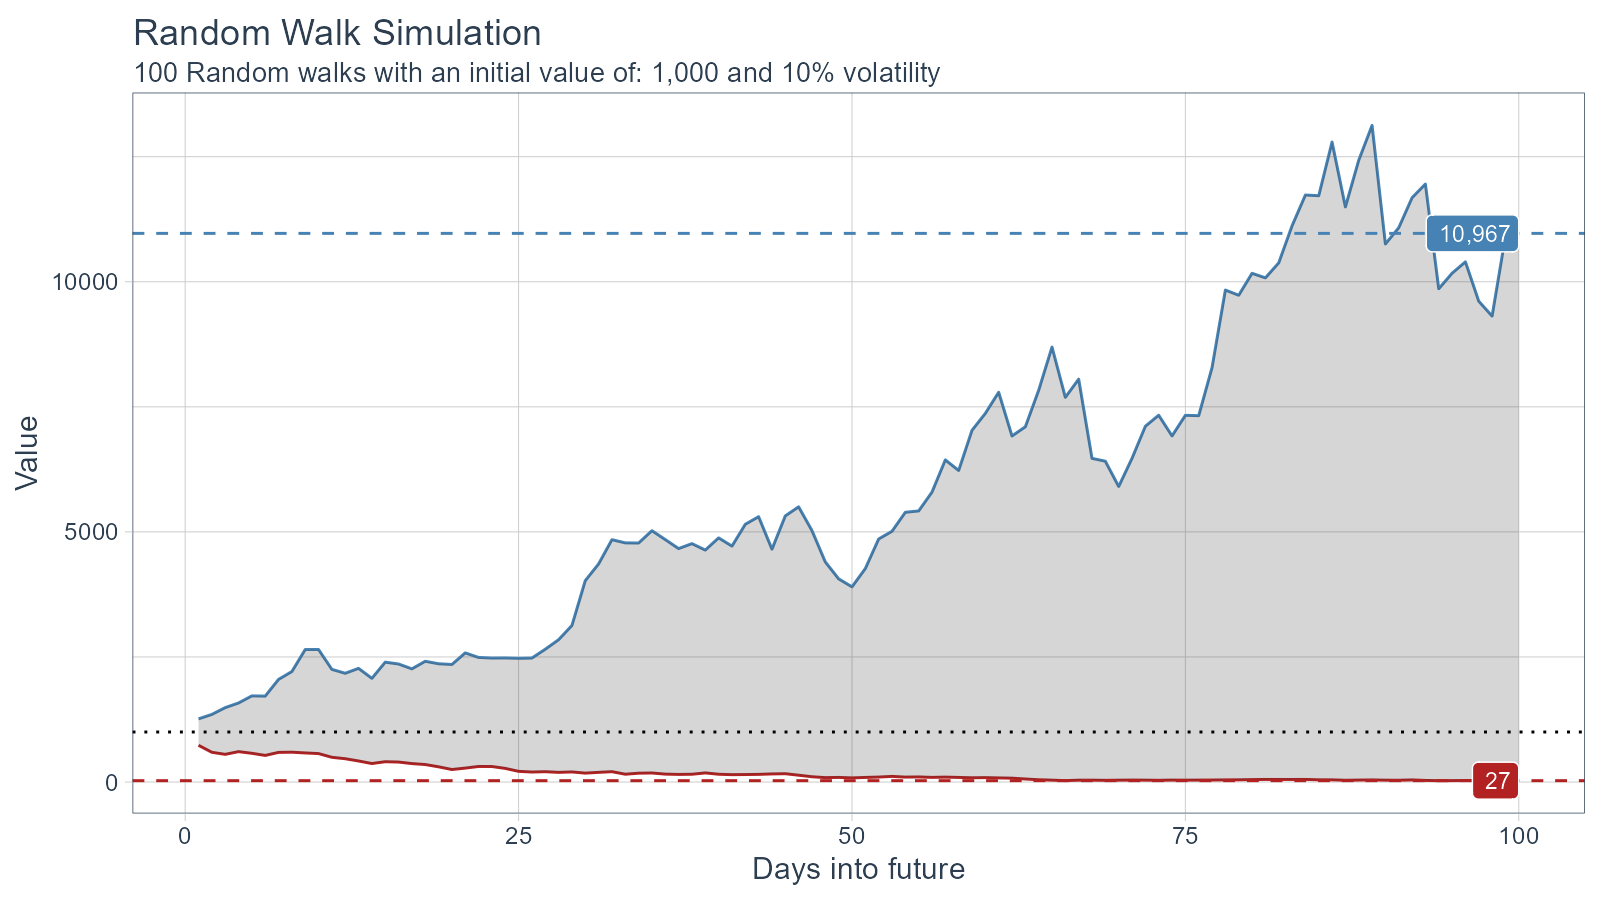
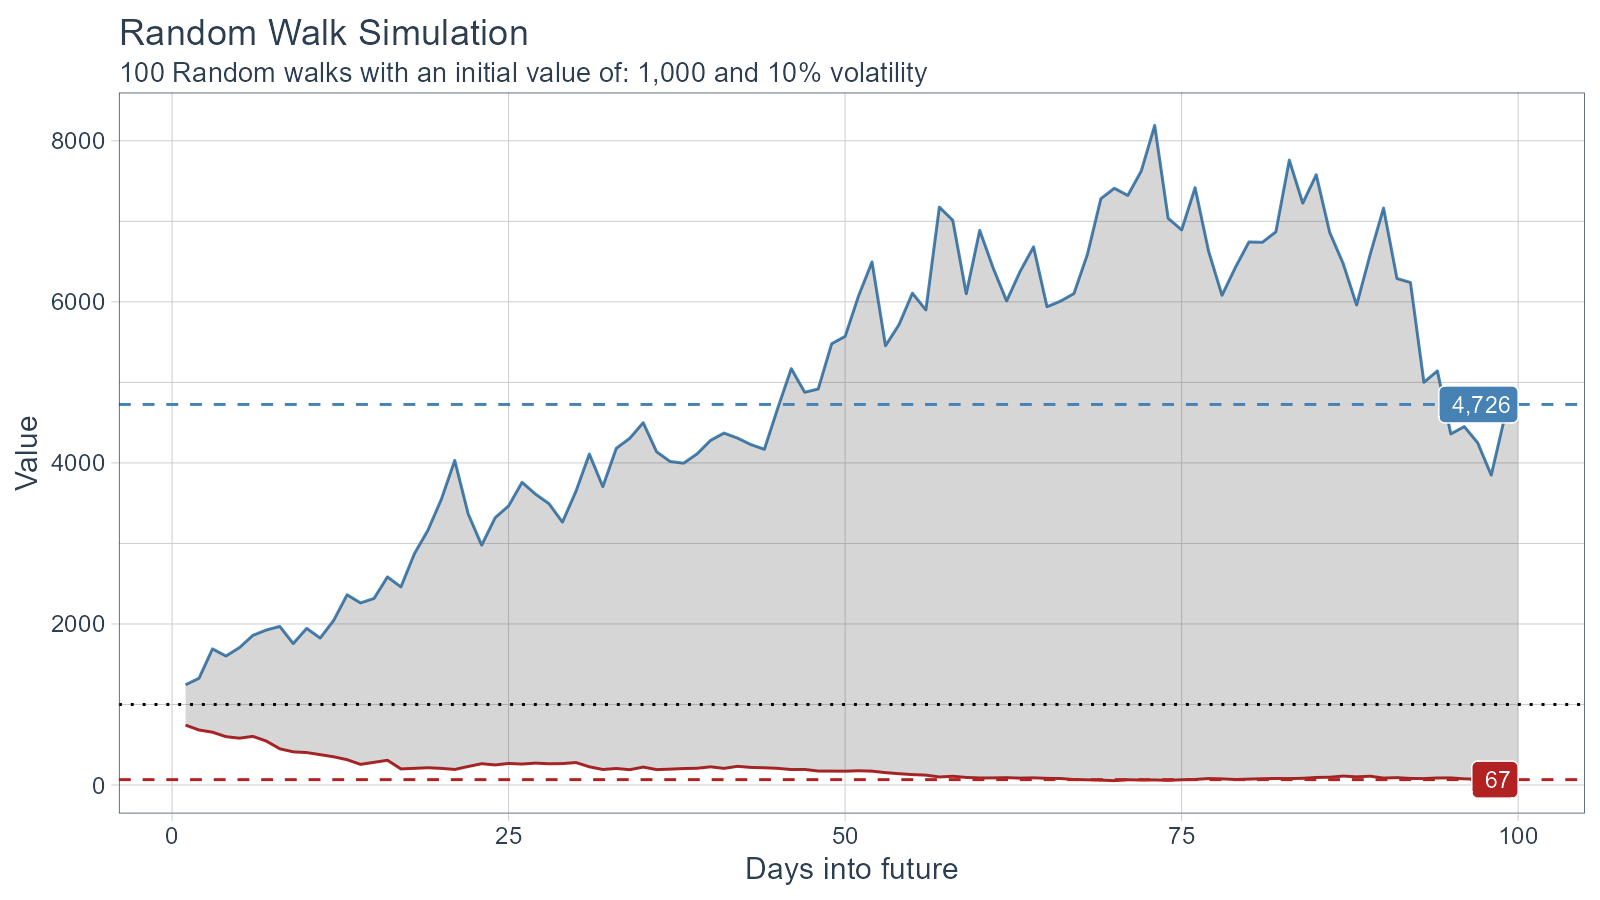
fix NEWS page

diff --git a/docs/news/index.html b/docs/news/index.html
@@ -180,18 +180,21 @@
 <a href="#minor-fixes-and-improvments" class="anchor"></a>Minor Fixes and Improvments</h2>
 <p>None</p>
 </div>
-<div id="healthyrts-011" class="section level2">
-<h2 class="hasAnchor">
-<a href="#healthyrts-011" class="anchor"></a>healthyR.ts 0.1.1</h2>
+</div>
+    <div id="healthyrts-011" class="section level1">
+<h1 class="page-header" data-toc-text="0.1.1">
+<a href="#healthyrts-011" class="anchor"></a>healthyR.ts 0.1.1<small> 2021-02-09 </small>
+</h1>
 <ul>
 <li>update DESCRIPTION file and minor cleanups</li>
 <li>GitHub release: <a href="https://github.com/spsanderson/healthyR.ts/releases/tag/v0.1.1" class="uri">https://github.com/spsanderson/healthyR.ts/releases/tag/v0.1.1</a>
 </li>
 </ul>
 </div>
-<div id="healthyrts-010" class="section level2">
-<h2 class="hasAnchor">
-<a href="#healthyrts-010" class="anchor"></a>healthyR.ts 0.1.0</h2>
+    <div id="healthyrts-010" class="section level1">
+<h1 class="page-header" data-toc-text="0.1.0">
+<a href="#healthyrts-010" class="anchor"></a>healthyR.ts 0.1.0<small> 2021-01-22 </small>
+</h1>
 <ul>
 <li>Added functions</li>
 </ul>
@@ -200,9 +203,10 @@
 <li>ts_compare_data</li>
 </ol>
 </div>
-<div id="healthyrts-0009001" class="section level2">
-<h2 class="hasAnchor">
-<a href="#healthyrts-0009001" class="anchor"></a>healthyR.ts 0.0.0.9001</h2>
+    <div id="healthyrts-0009001" class="section level1">
+<h1 class="page-header" data-toc-text="0.0.0.9001">
+<a href="#healthyrts-0009001" class="anchor"></a>healthyR.ts 0.0.0.9001<small> Unreleased </small>
+</h1>
 <ul>
 <li>Added fuctions</li>
 </ul>
@@ -211,13 +215,13 @@
 <li>ts_random_walk_ggplot_layers</li>
 </ol>
 </div>
-<div id="healthyrts-0009000" class="section level2">
-<h2 class="hasAnchor">
-<a href="#healthyrts-0009000" class="anchor"></a>healthyR.ts 0.0.0.9000</h2>
+    <div id="healthyrts-0009000" class="section level1">
+<h1 class="page-header" data-toc-text="0.0.0.9000">
+<a href="#healthyrts-0009000" class="anchor"></a>healthyR.ts 0.0.0.9000<small> Unreleased </small>
+</h1>
 <ul>
 <li>Added a <code>NEWS.md</code> file to track changes to the package.</li>
 </ul>
-</div>
 </div>
   </div>
 

diff --git a/docs/articles/getting-started.html b/docs/articles/getting-started.html
@@ -114,19 +114,19 @@
 <span class="co">#&gt; # A tibble: 6 x 4</span>
 <span class="co">#&gt;     run     x       y cum_y</span>
 <span class="co">#&gt;   &lt;dbl&gt; &lt;dbl&gt;   &lt;dbl&gt; &lt;dbl&gt;</span>
-<span class="co">#&gt; 1     1     1 -0.0613  939.</span>
-<span class="co">#&gt; 2     1     2 -0.128   819.</span>
-<span class="co">#&gt; 3     1     3 -0.0377  788.</span>
-<span class="co">#&gt; 4     1     4 -0.0942  714.</span>
-<span class="co">#&gt; 5     1     5 -0.107   637.</span>
-<span class="co">#&gt; 6     1     6  0.138   725.</span>
+<span class="co">#&gt; 1     1     1  0.101  1101.</span>
+<span class="co">#&gt; 2     1     2  0.104  1216.</span>
+<span class="co">#&gt; 3     1     3 -0.0930 1103.</span>
+<span class="co">#&gt; 4     1     4  0.108  1222.</span>
+<span class="co">#&gt; 5     1     5 -0.0108 1209.</span>
+<span class="co">#&gt; 6     1     6  0.0840 1310.</span>
 <span class="fu"><a href="https://pillar.r-lib.org/reference/glimpse.html">glimpse</a></span><span class="op">(</span><span class="va">df</span><span class="op">)</span>
 <span class="co">#&gt; Rows: 10,000</span>
 <span class="co">#&gt; Columns: 4</span>
 <span class="co">#&gt; $ run   &lt;dbl&gt; 1, 1, 1, 1, 1, 1, 1, 1, 1, 1, 1, 1, 1, 1, 1, 1, 1, 1, 1, 1, 1, 1~</span>
 <span class="co">#&gt; $ x     &lt;dbl&gt; 1, 2, 3, 4, 5, 6, 7, 8, 9, 10, 11, 12, 13, 14, 15, 16, 17, 18, 1~</span>
-<span class="co">#&gt; $ y     &lt;dbl&gt; -0.061297123, -0.127639009, -0.037714320, -0.094152539, -0.10722~</span>
-<span class="co">#&gt; $ cum_y &lt;dbl&gt; 938.7029, 818.8878, 788.0040, 713.8114, 637.2748, 724.9815, 697.~</span></code></pre></div>
+<span class="co">#&gt; $ y     &lt;dbl&gt; 0.10126229, 0.10402050, -0.09303518, 0.10818132, -0.01083583, 0.~</span>
+<span class="co">#&gt; $ cum_y &lt;dbl&gt; 1101.2623, 1215.8161, 1102.7025, 1221.9943, 1208.7530, 1310.3065~</span></code></pre></div>
 <p>Now that the data has been generated, lets take a look at it.</p>
 <div class="sourceCode" id="cb3"><pre class="downlit sourceCode r">
 <code class="sourceCode R"><span class="va">df</span> <span class="op">%&gt;%</span>

diff --git a/NEWS.md b/NEWS.md
@@ -20,20 +20,20 @@ None
 ## Minor Fixes and Improvments
 None
 
-## healthyR.ts 0.1.1
+# healthyR.ts 0.1.1
 * update DESCRIPTION file and minor cleanups
 * GitHub release: https://github.com/spsanderson/healthyR.ts/releases/tag/v0.1.1
 
-## healthyR.ts 0.1.0
+# healthyR.ts 0.1.0
 * Added functions
 1. ts_qc_run_chart
 2. ts_compare_data
 
-## healthyR.ts 0.0.0.9001
+# healthyR.ts 0.0.0.9001
 * Added fuctions
 1. ts_random_walk
 2. ts_random_walk_ggplot_layers
 
-## healthyR.ts 0.0.0.9000
+# healthyR.ts 0.0.0.9000
 
 * Added a `NEWS.md` file to track changes to the package.
